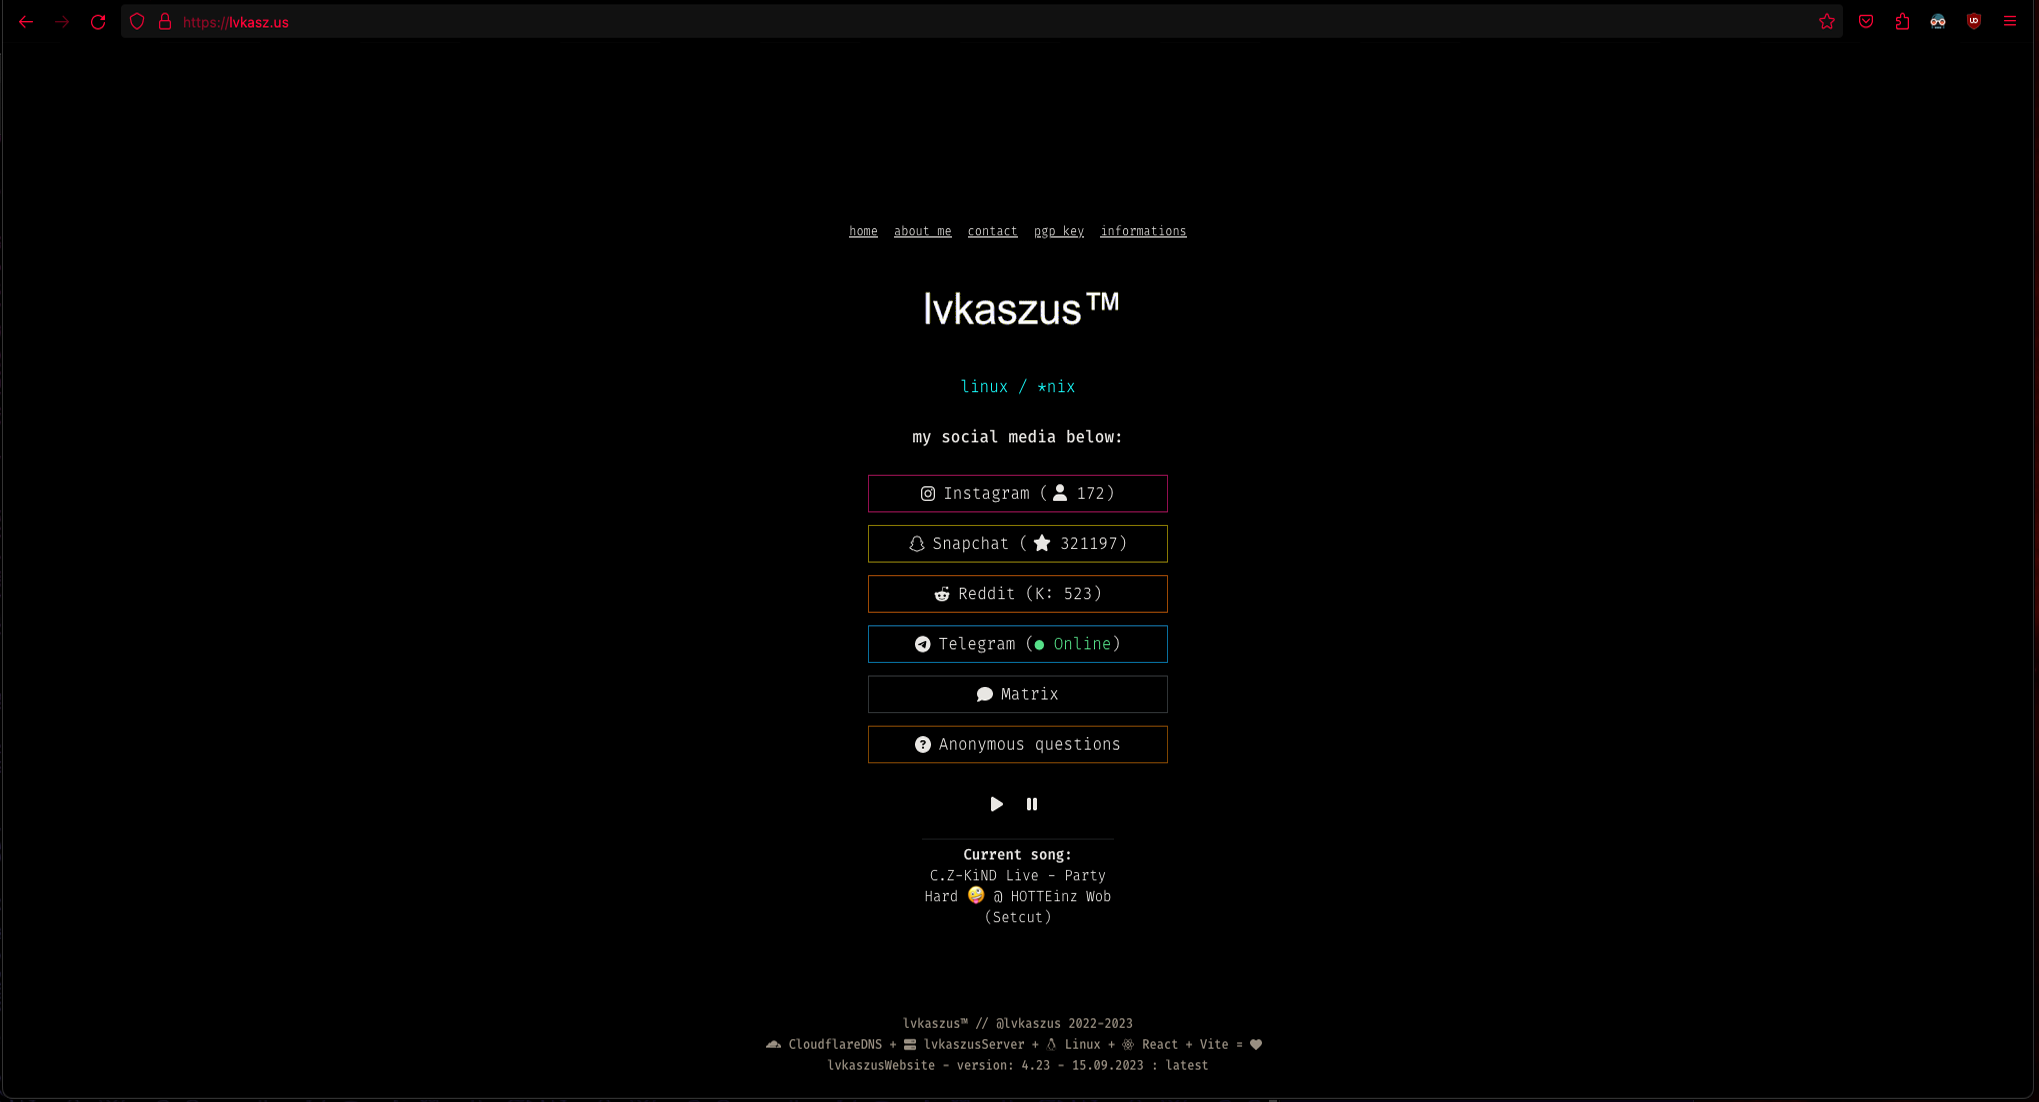
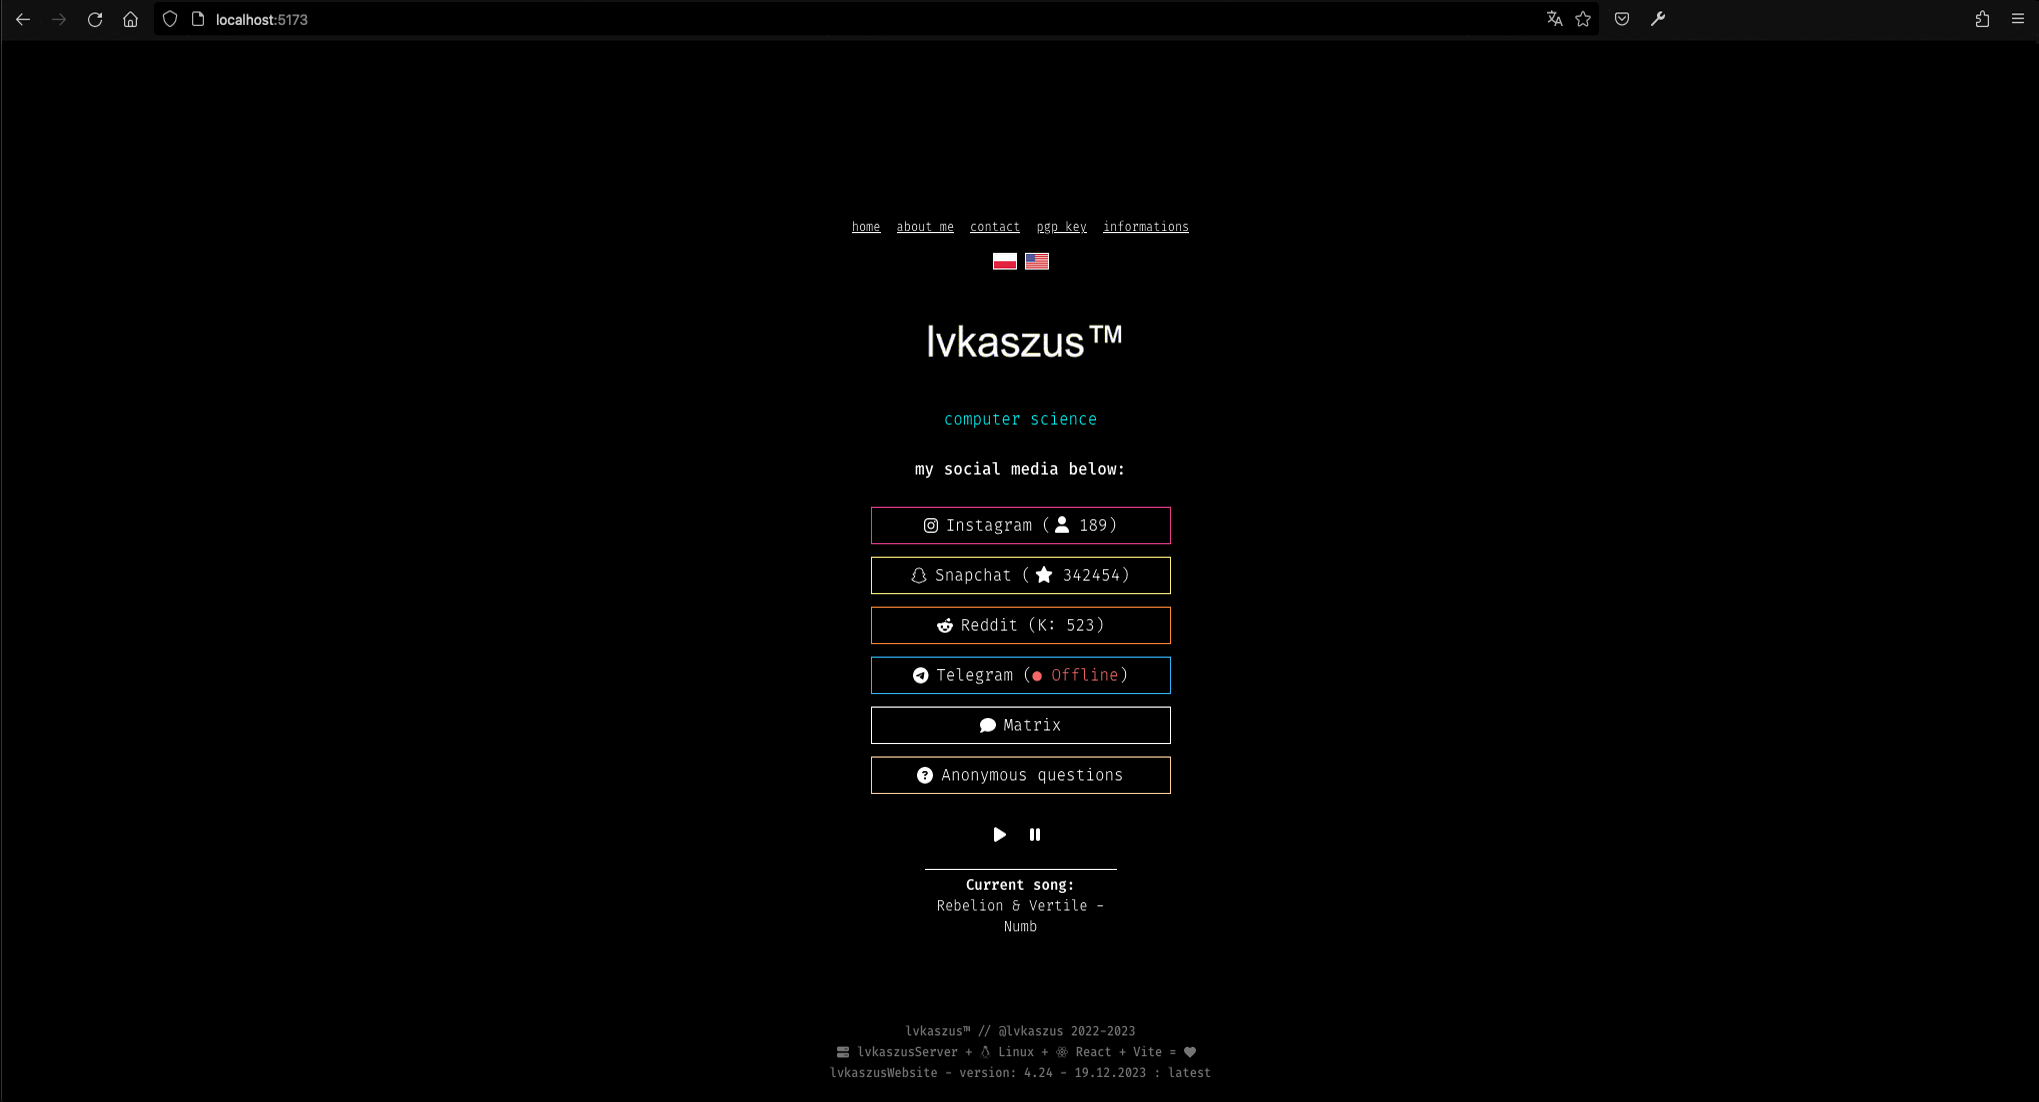
Updated preview screenshot and deleted BeReal. link

diff --git a/src/components/SmartSocialButtons.jsx b/src/components/SmartSocialButtons.jsx
@@ -70,12 +70,6 @@ const SmartSocialButtons = () => {
         </div>
 
         <div className='my-3'>
-          <a href='https://bere.al/lvkaszus' className='text-base no-underline text-linkColor py-5px border border-gray-400 font-light flex items-center justify-center hover:text-gray-400 hover:border-2 hover:shadow-white transition-all duration-200 ease-in-out' target='_blank' rel='noreferrer'>
-            <span>BeReal.</span>
-          </a>
-        </div>
-
-        <div className='my-3'>
           <a href='https://reddit.com/user/lvkaszus' className='text-base no-underline text-linkColor py-5px border border-orange-400 font-light flex items-center justify-center hover:text-orange-400 hover:border-2 hover:shadow-orange transition-all duration-200 ease-in-out' target='_blank' rel='noreferrer'>
             <FontAwesomeIcon icon={faRedditAlien} className='mr-2' />
             <span>Reddit (K: {data.reddit_karma})</span>
